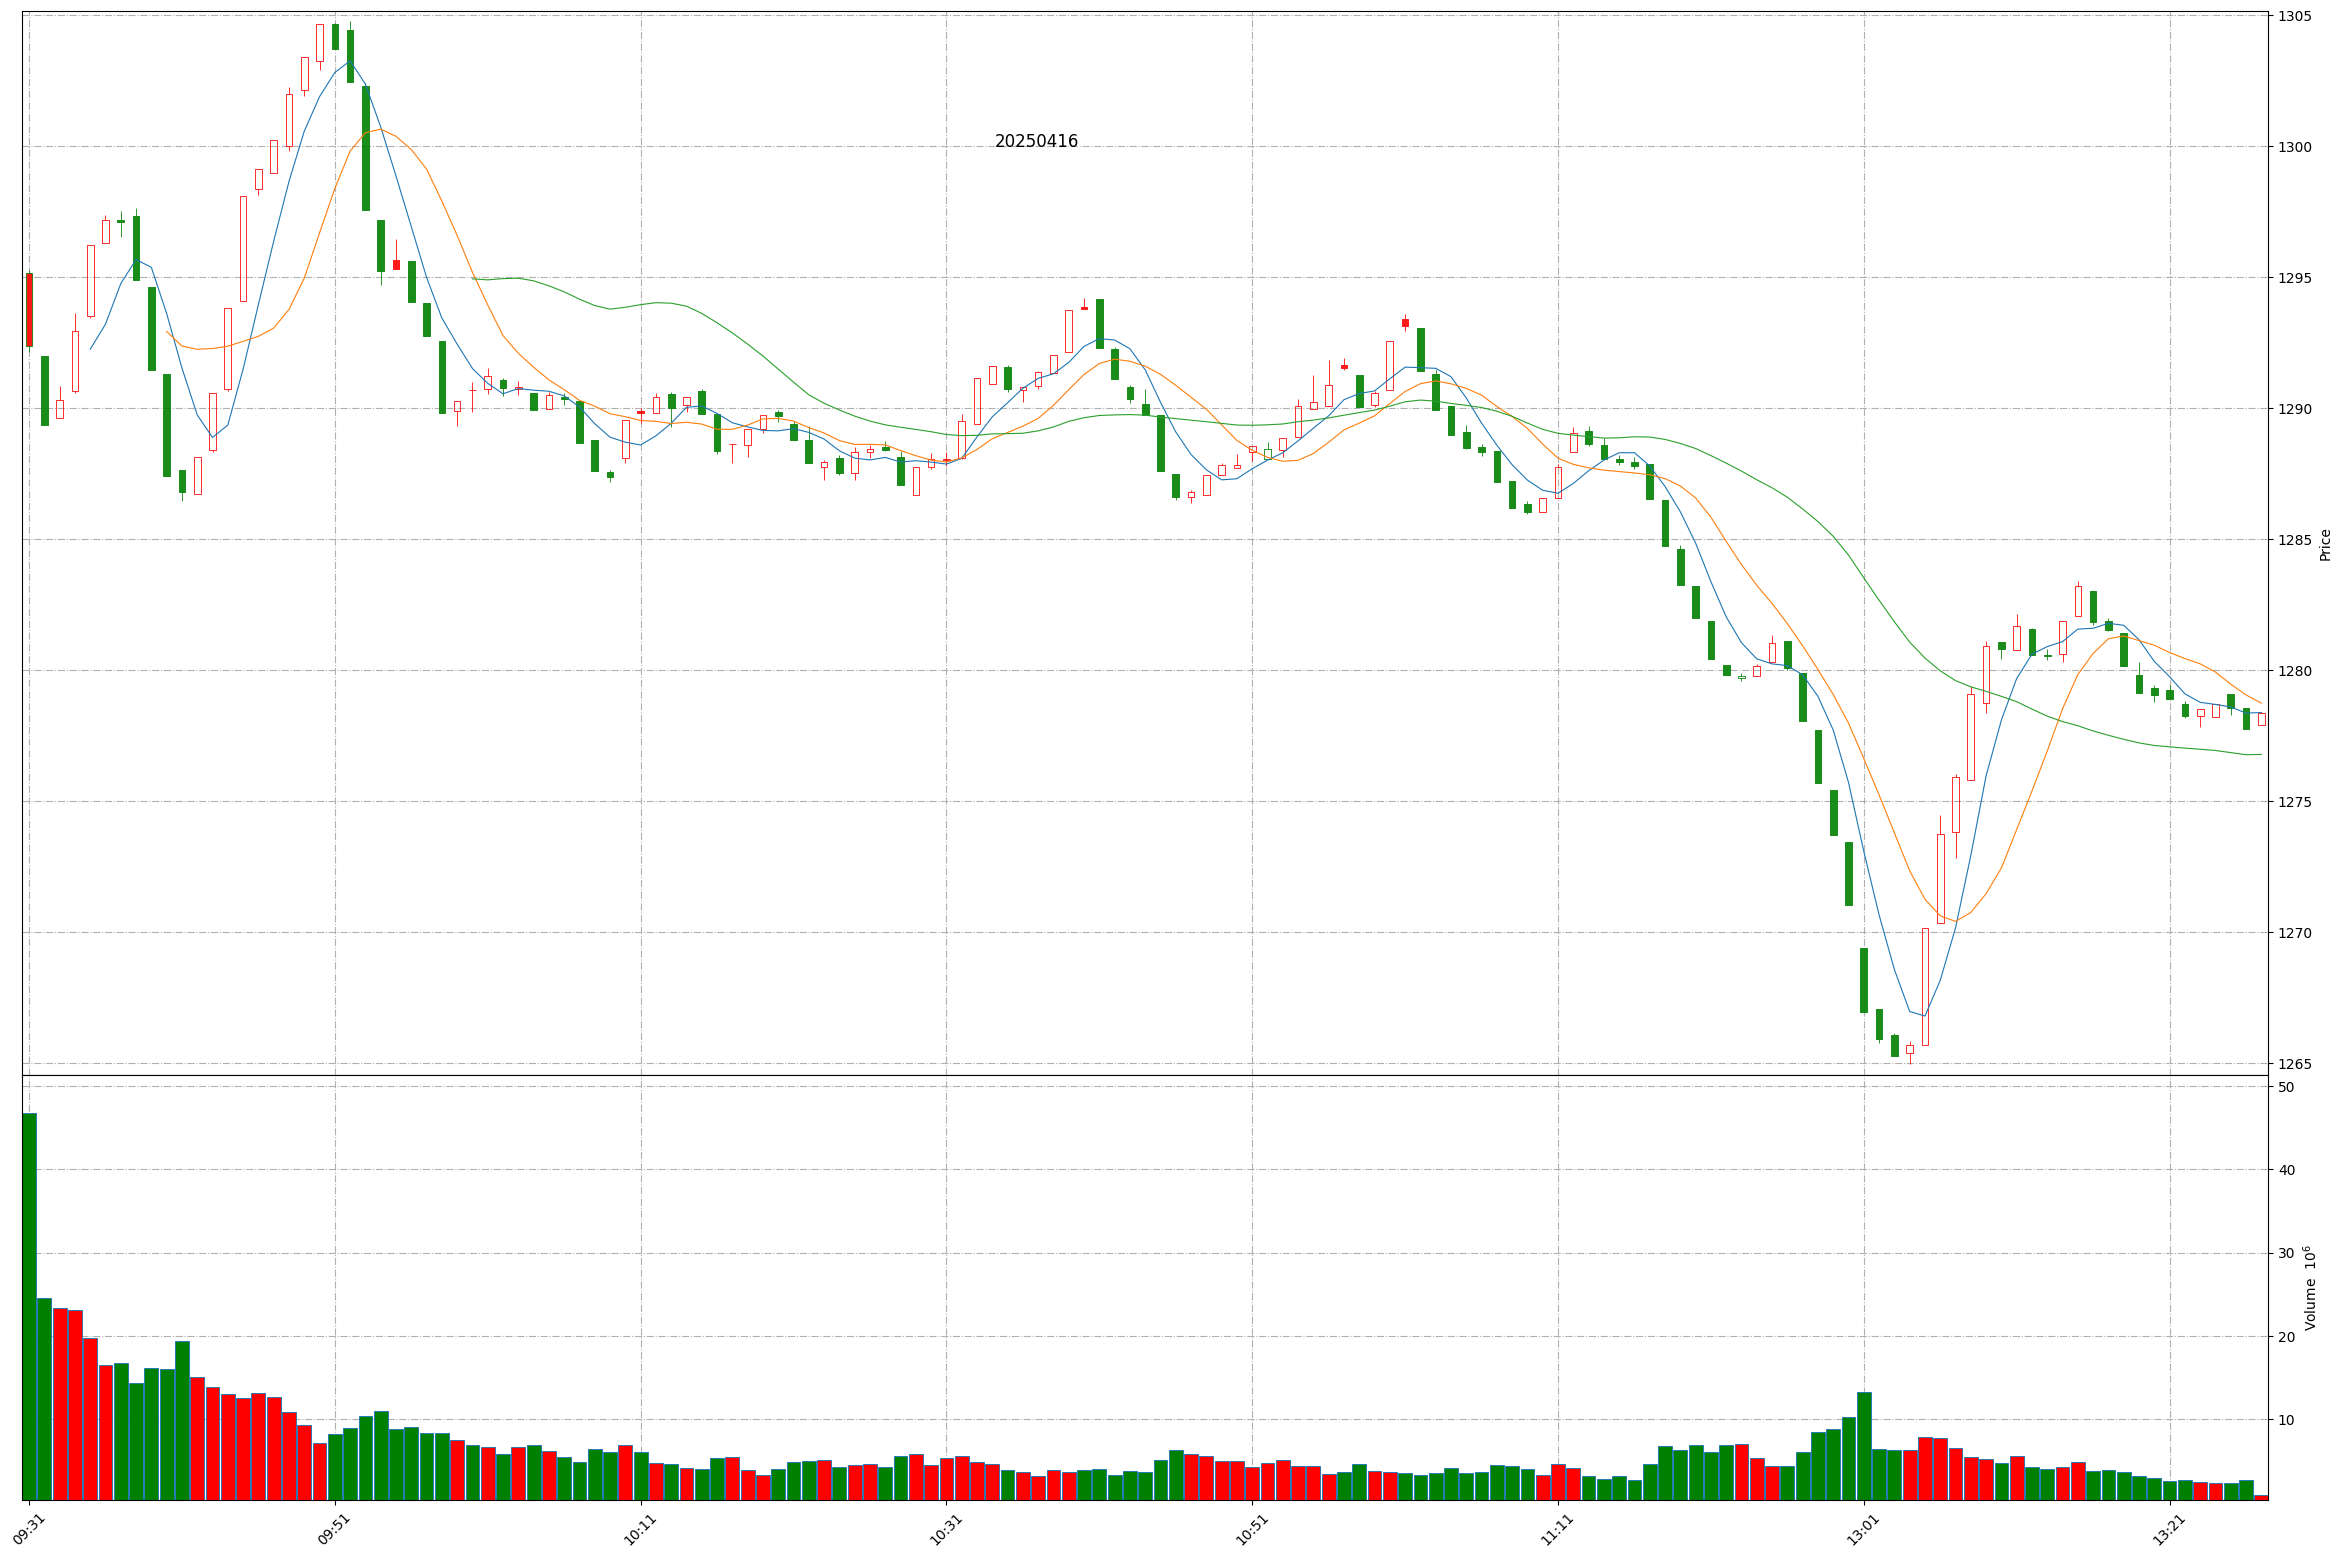
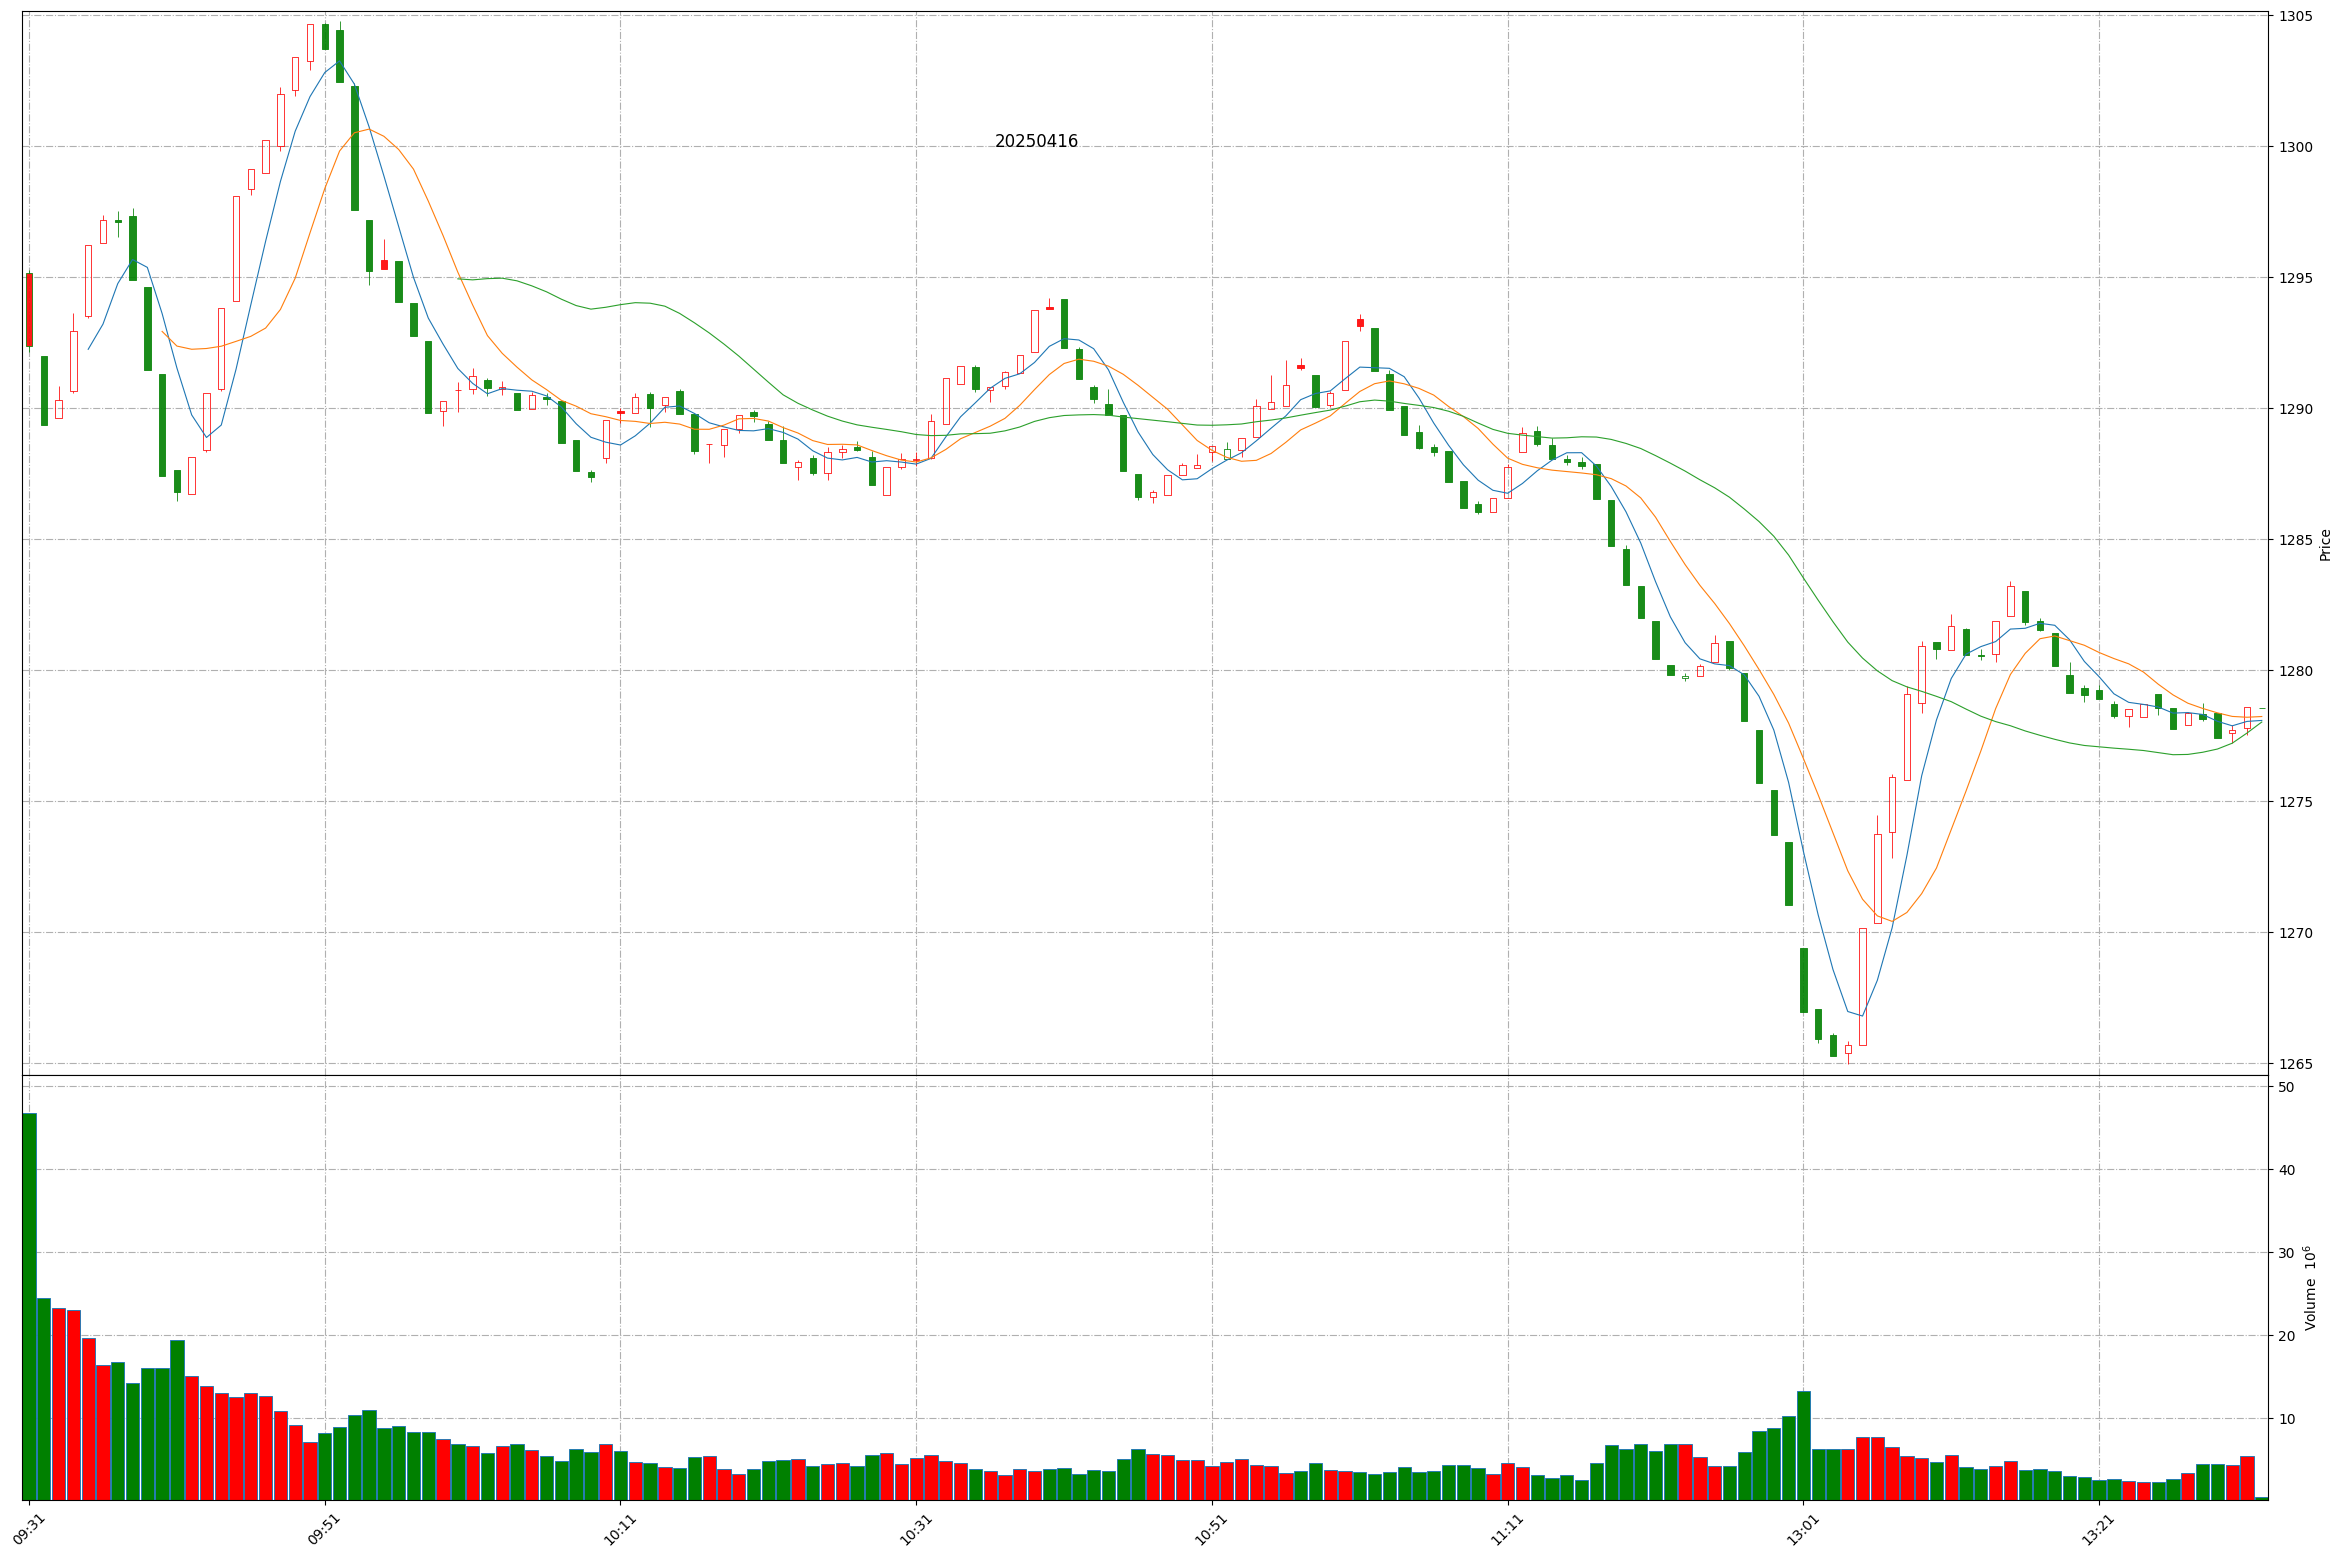
Github action update at 2025-04-16 13:31:24.

diff --git a/README.md b/README.md
@@ -1,11 +1,11 @@
 
 # Daily-A-share-market-quotes 每日 A 股指数（5min 更新）- 20250416
 
-### 上证指数 20250416 13:26
+### 上证指数 20250416 13:31
 ![](./fig/2025/4/20250416-sh000001.png)
 
-### 深证成指 20250416 13:26
+### 深证成指 20250416 13:31
 ![](./fig/2025/4/20250416-sz399001.png)
 
-### 北证50 20250416 13:26
+### 北证50 20250416 13:31
 ![](./fig/2025/4/20250416-bj899050.png)
